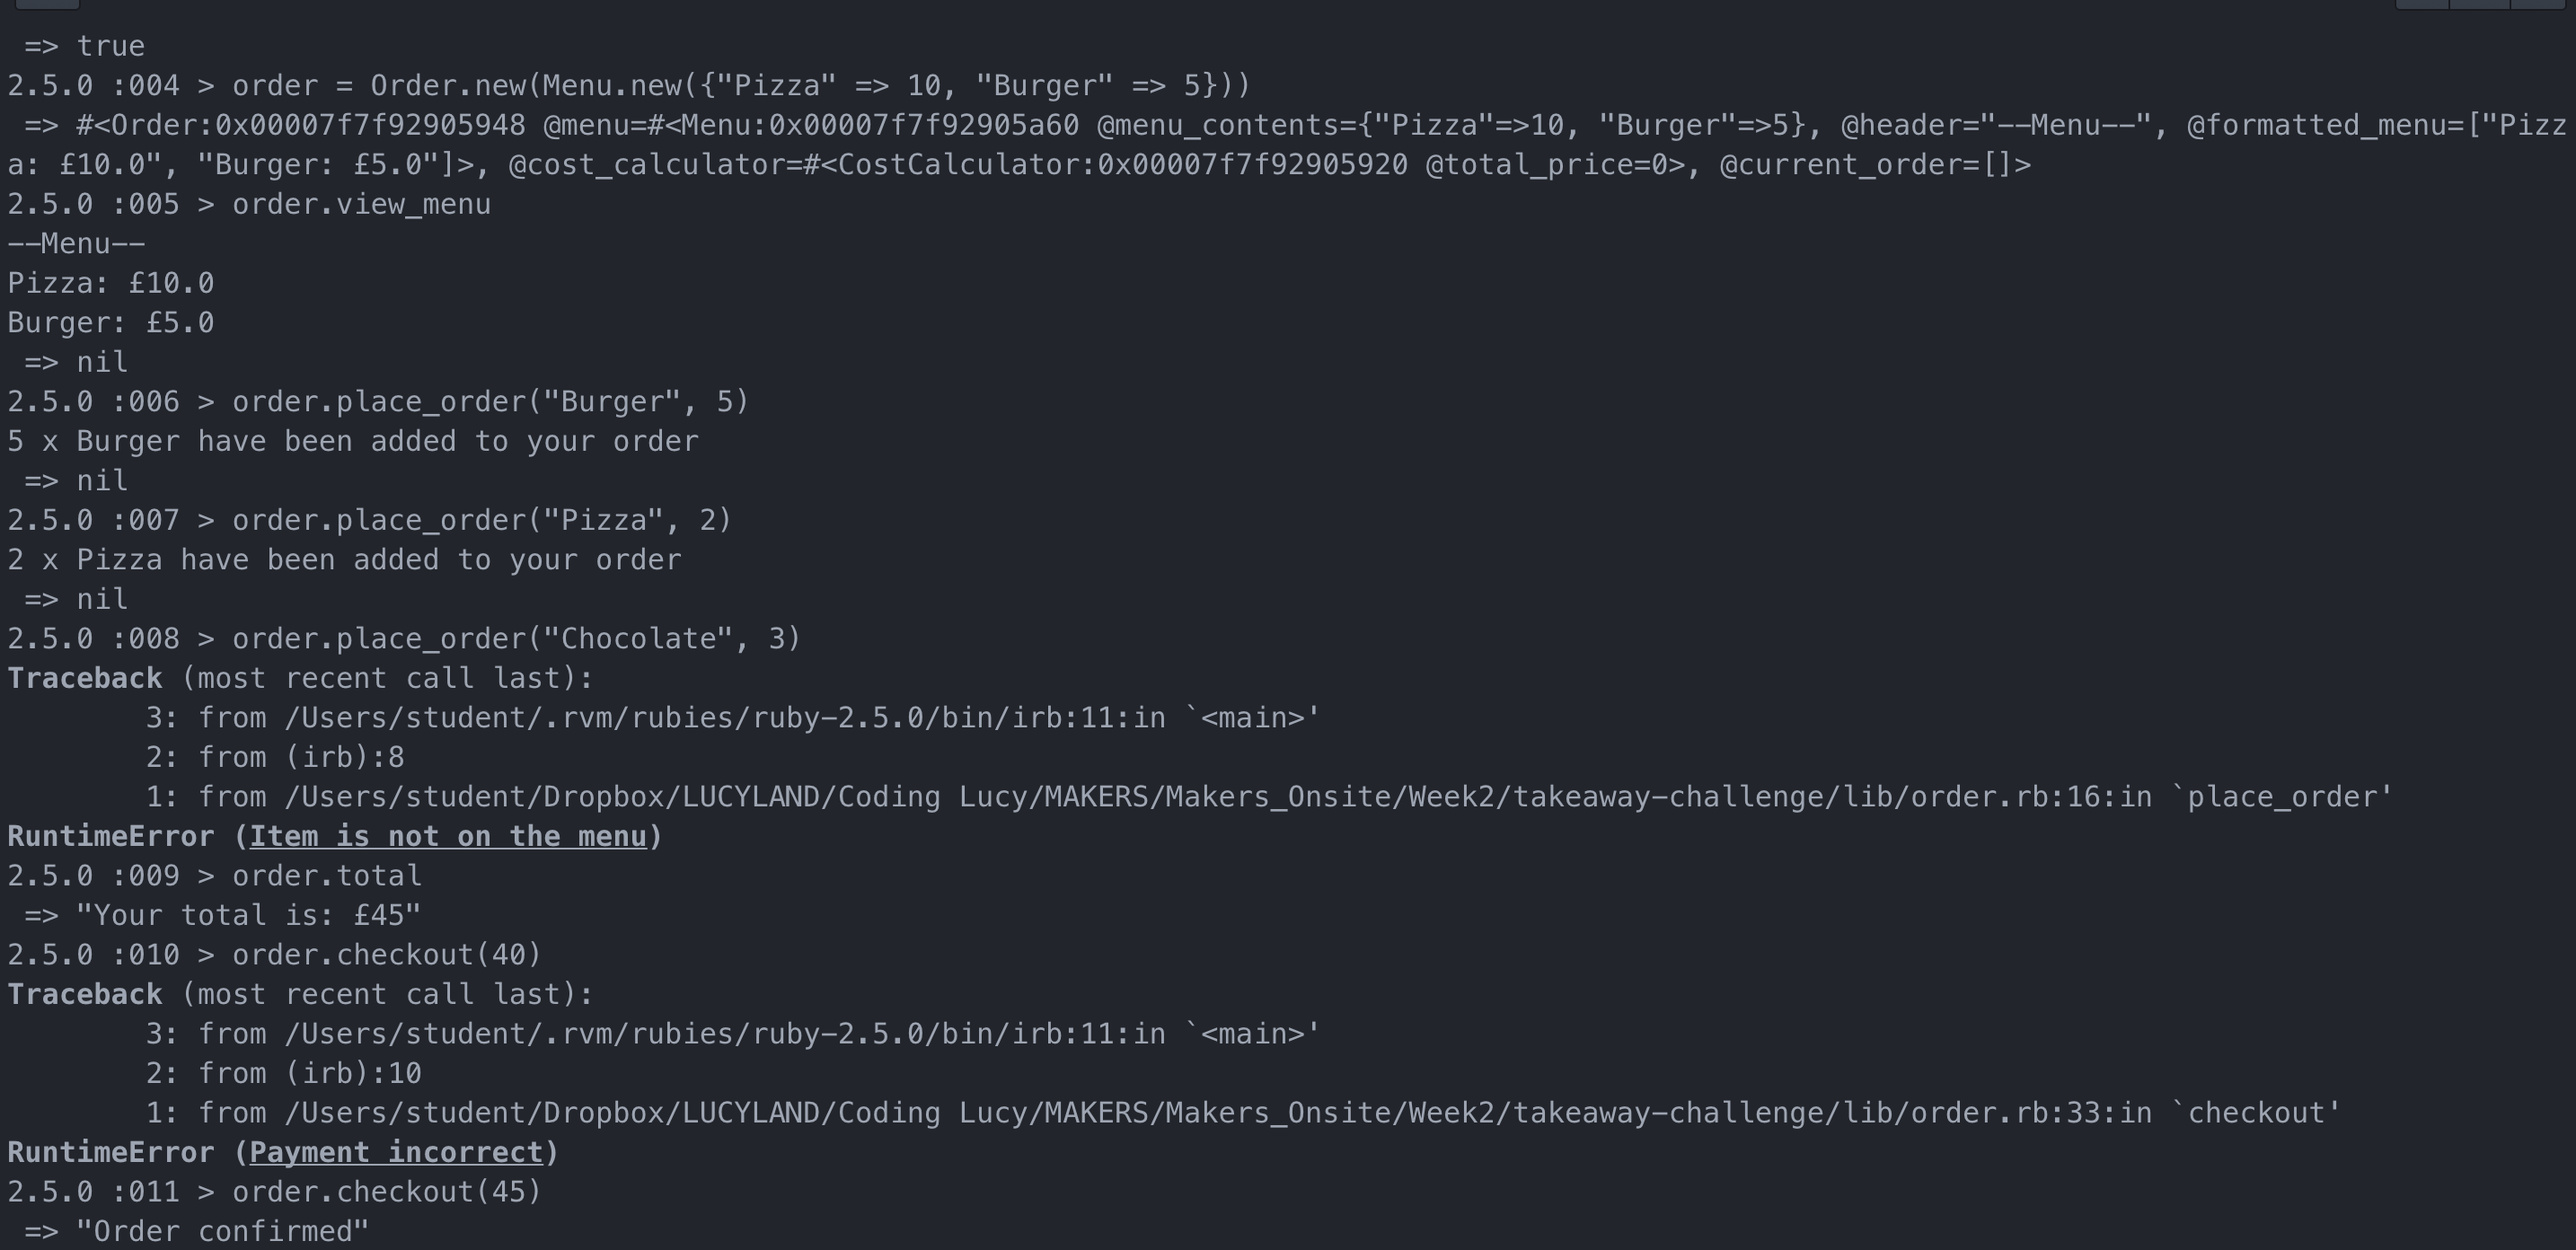
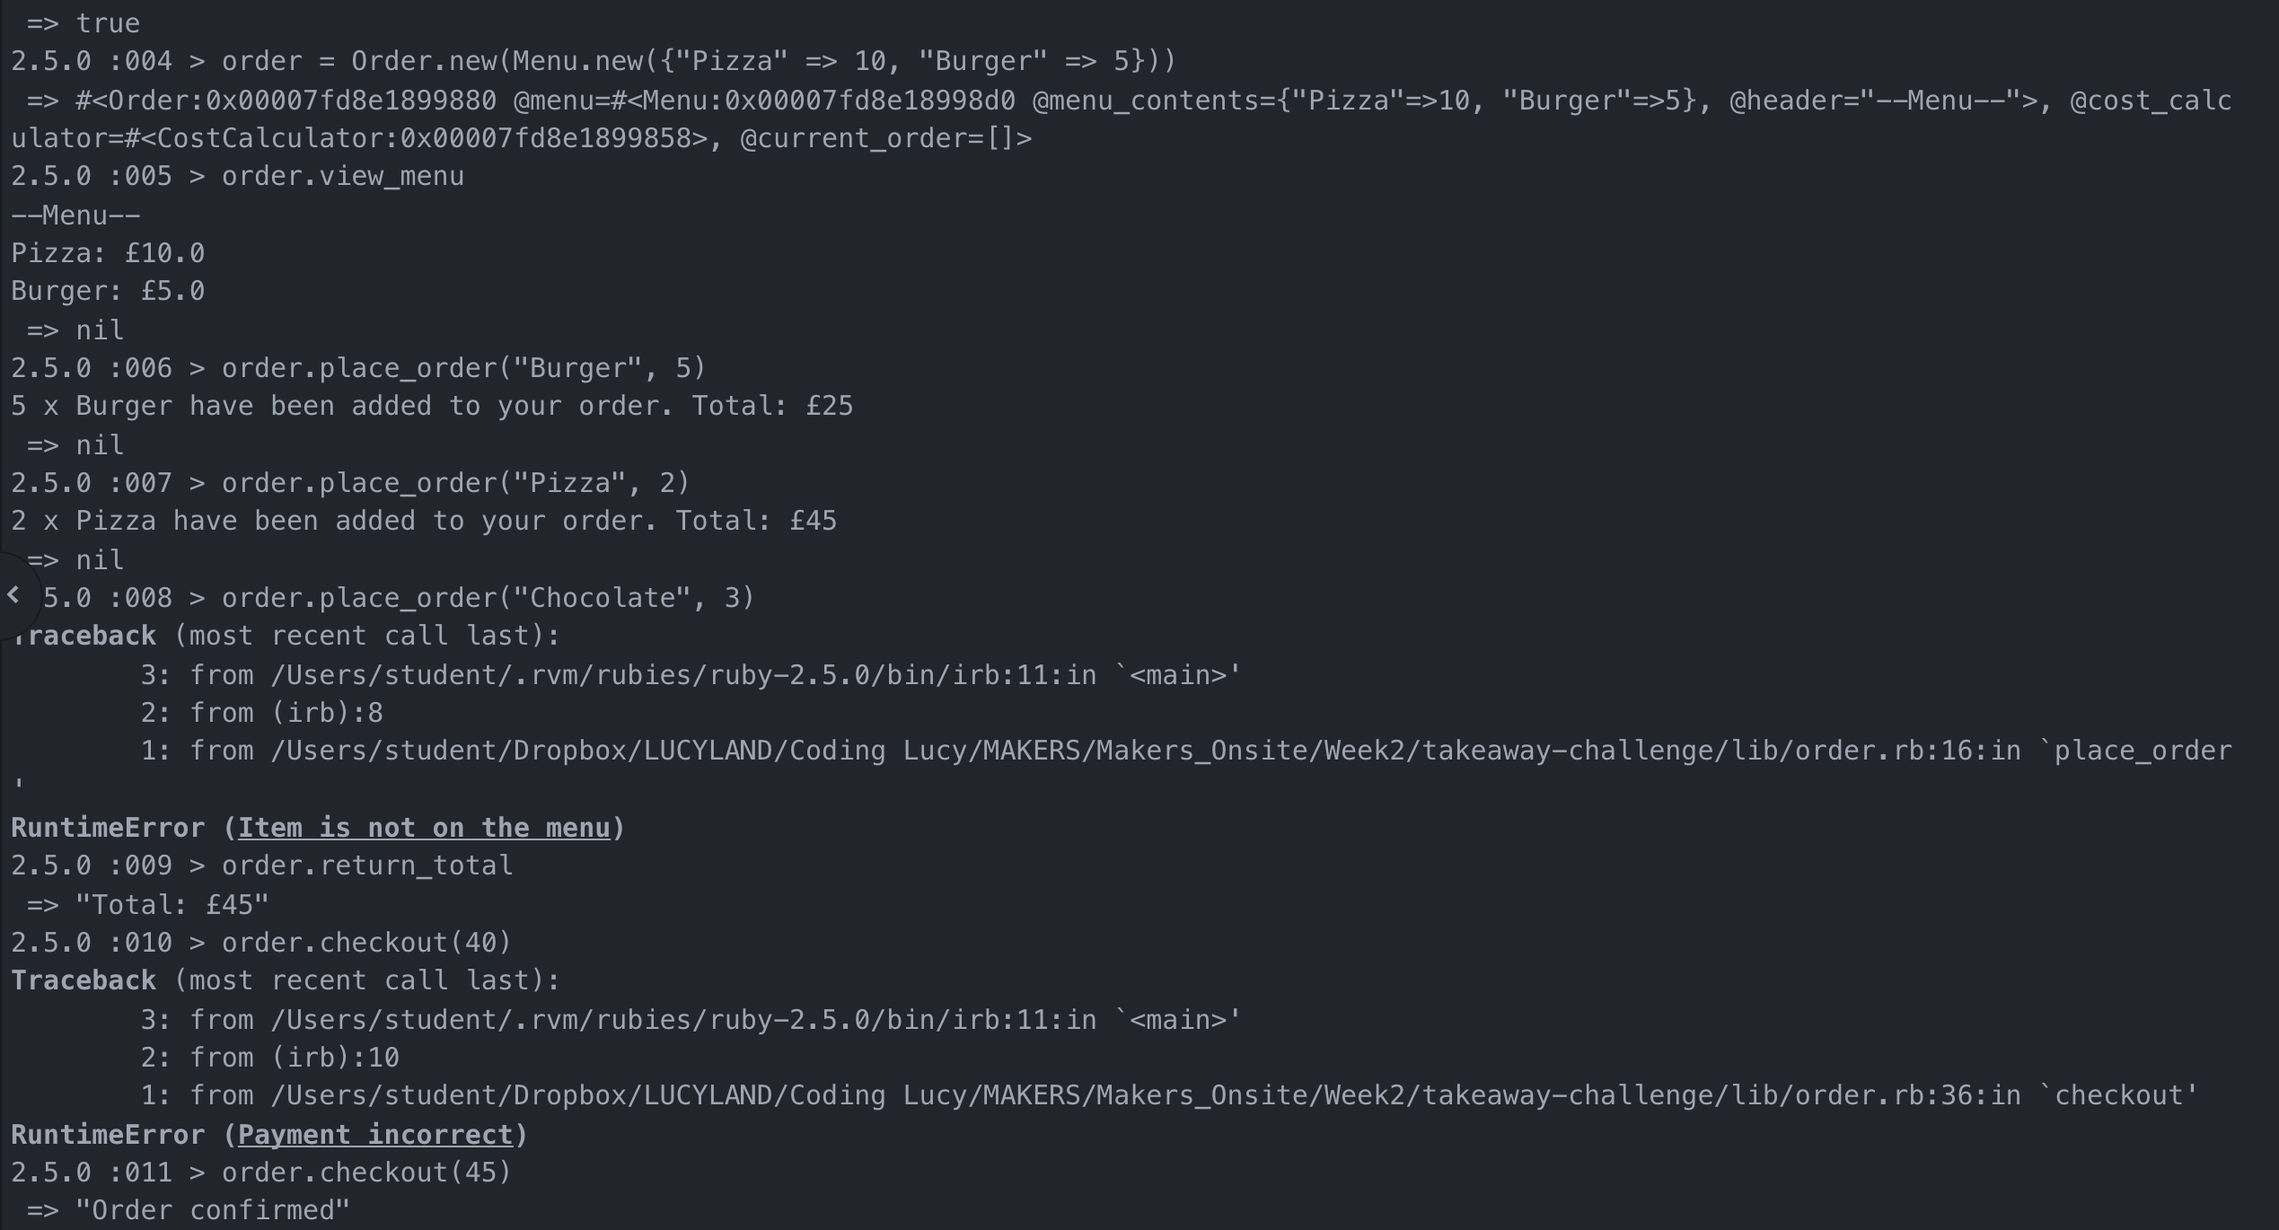
Updated README to reflect recent changes

Changed region(s): [[0.0, 0.0, 0.9961, 1.0], [0.9338, 0.0, 0.9961, 0.0307]]

diff --git a/MYREADME.md b/MYREADME.md
@@ -22,8 +22,8 @@
 1. create a new instance of the Order class and pass it a menu in the form of a hash
 2. view the menu by calling `order.view_menu`
 3. place your order `order.place_order(dish, quantity)`
-4. your order will be repeated back to you
-5. Find out your final total `order.total`
+4. your order will be repeated back to you, along with the running total
+5. Find out your final total `order.return_total`
 5. checkout with the imagined amount owed `checkout(payment)`
 
 ## Feature test, including all possible errors:
@@ -31,7 +31,5 @@
 <img src= "Screenshot.png" >
 
 ## Reflections:
-- I am aware that if the user checks the total repeatedly it keeps adding the overall cost to itself (doubling) this is because the method total works out the total afresh each time and then adds it to the total variable
-  - ideally I would reset it at checkout and potentially not even store the total as an instance variable in the first place - I would just keep whatever was returned by the calculate method
 - If I had more time I would like to add a test which checks that when the user adds in their own menu they can only add it in the format { String => Positive Integer }
 - My commits are also a bit disorganised - this is because during the middle of my work I forgot to commit therefore there are commits which cover quite broad strokes of my process
